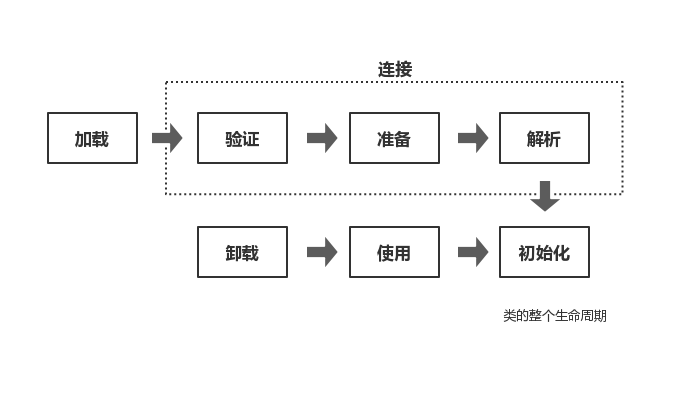
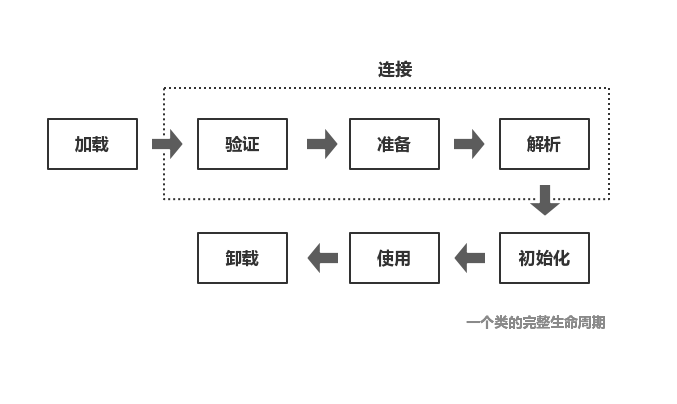
update

diff --git a/Class类文件的结构.md b/Class类文件的结构.md
@@ -1,0 +1,35 @@
+---
+title: Class类文件结构
+date: 2019-07-25 11:23:10
+tags: Java
+---
+
+Class类文件通常是由Java源代码编译而来，不过由于Java的动态特性，我们完全可以将思路拓宽，用二进制流的角度来看待**Class类文件结构**这个主题。二进制流可以从哪里获取？`.class`文件、其它二进制文件、网络、数据库等等。
+
+Class类文件具有以下特点：
+
+- 是一组以**8位即1个字节**为基本单位的二进制流
+- 不存在分隔符
+- 如果一个数据项占用8个字节以上，则按照**Big-Endian**存储
+
+一个Class文件的基本结构如下：
+
+| 类型            | 名称                | 数量                  | 说明               |
+| --------------- | ------------------- | --------------------- | ------------------ |
+| u4              | magic               | 1                     | 魔数               |
+| u2              | minor_version       | 1                     | Class文件次版本号  |
+| u2              | major_version       | 1                     | Class文件主版本号  |
+| u2              | constant_pool_count | 1                     | 常量池的大小       |
+| cp_info         | constant_pool       | constant_pool_count-1 | 常量池             |
+| u2              | access_flag         | 1                     | 访问标志           |
+| u2              | this_class          | 1                     | 类索引             |
+| u2              | super_class         | 1                     | 父类索引           |
+| u2              | interfaces_count    | 1                     | 接口索引集合的大小 |
+| u2              | inferfaces          | interfaces_count      | 接口索引集合       |
+| u2              | fields_count        | 1                     | 字段表集合的大小   |
+| field_info      | fields              | fields_count          | 字段表集合         |
+| u2              | methods_count       | 1                     | 方法表集合的大小   |
+| method_info     | methods             | methods_count         | 方法表集合         |
+| u2              | attributes_count    | 1                     | 属性表集合的大小   |
+| attributes_info | attributes          | attributes_count      | 属性表集合         |
+

diff --git a/类加载的过程.md b/类加载的过程.md
@@ -6,15 +6,42 @@ tags: Java
 
 ## 类加载的过程
 
-一个类的全部生命周期可以用7个阶段表示：**加载、验证、准备、解析、初始化、使用、卸载**。其中**验证、准备、解析统称为连接**，而**类加载则有加载、连接、初始化这三个过程组成**。
+一个类的全部生命周期可以用7个阶段表示：
+
+1. 加载
+
+2. 验证
+
+3. 准备
+
+4. 解析
+
+5. 使用
+
+6. 卸载
 
 ![](./类加载的过程/class1.png)
 
-下面主要讲一下类加载过程，即 **加载+连接+初始化** 。
+其中，验证、准备、解析统称为连接。
+
+
+
+下面主要讲一下类加载过程，需要注意一下，这里所谓的类加载过程是由上图中的 **加载、连接、初始化** 这三部分所组成。
 
 ## 加载
 
+在加载阶段，JVM的任务主要有以下三个：
 
+- 通过类的全限定名去获取定义此类的二进制字节流
+- 将字节流所代表的静态存储结构转化为方法区的运行时数据结构
+- 在内存中生成一个代表该类的`java.lang.Class对象`，该对象是访问类在方法区各种数据的入口
+
+
+
+需要补充一下的是：
+
+- Class对象并非一定在堆中，对于HotSpot虚拟机就将其存储在方法区中
+- 所谓的二进制字节流并没有要求其来源，这意味着它除了可以来自Class文件以外，还可以是网络传输、由其他文件生成、压缩包（JAR、WAR等）、数据库甚至是动态生成
 
 ## 连接
 
